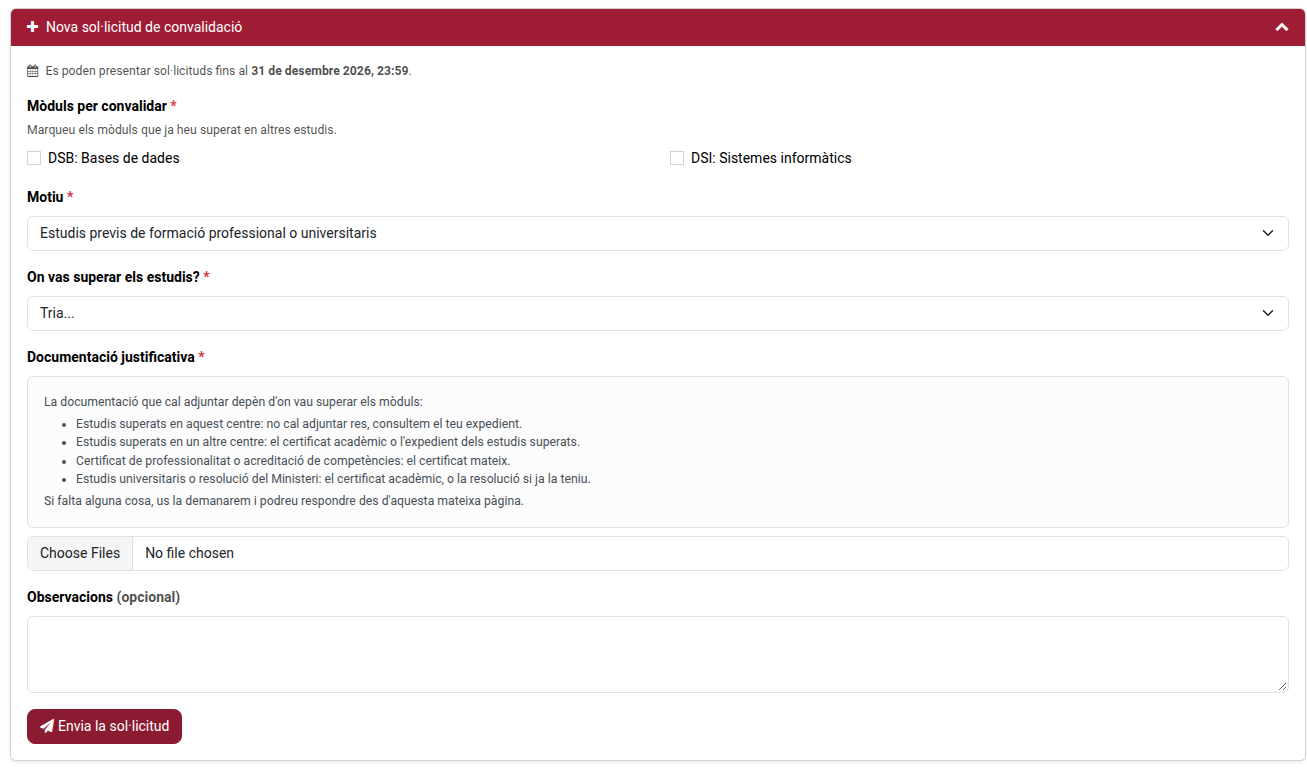
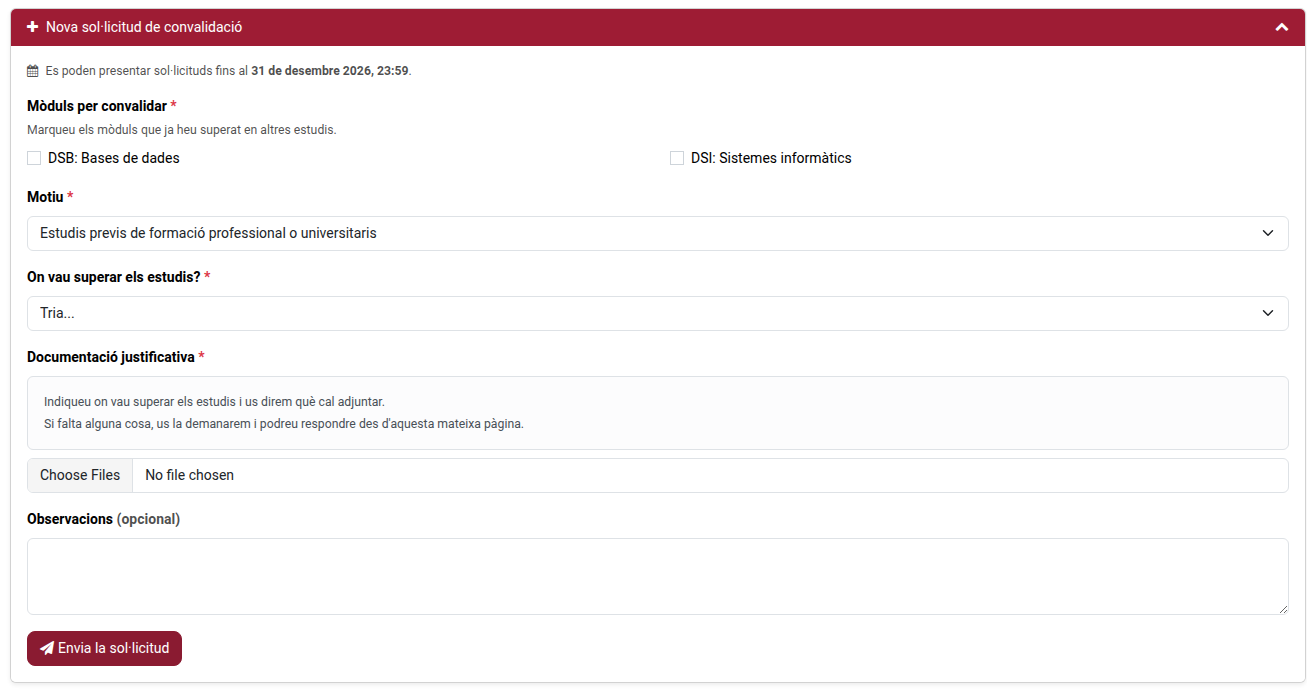
Convalidation portal: show only the document guidance matching the chosen grounds (#579)

Changed region(s): [[0.0, 0.0, 1.0, 0.7902], [0.0, 0.9117, 0.153, 0.9725], [0.5203, 0.1823, 0.6427, 0.2431]]

diff --git a/static/tests/tours/convalidation_tour.js b/static/tests/tours/convalidation_tour.js
@@ -256,10 +256,15 @@ registry.category("web_tour.tours").add("ems_convalidation_grade_tutor_matrix", 
     ],
 });
 
-function assertDocumentsRequired(expected) {
+// Whether the documents are required, and that only the guidance for these grounds is shown.
+function assertGuidance(basis, origin, required) {
     const input = document.querySelector(".o_ems_convalidation_new input[name='documents']");
-    if (input.required !== expected) {
-        throw new Error(`Supporting documents should${expected ? "" : " not"} be required`);
+    if (input.required !== required) {
+        throw new Error(`Supporting documents should${required ? "" : " not"} be required`);
+    }
+    const shown = [...document.querySelectorAll(".o_ems_convalidation_new .o_ems_convalidation_guidance:not(.d-none)")];
+    if (shown.length !== 1 || shown[0].dataset.basis !== basis || shown[0].dataset.origin !== origin) {
+        throw new Error(`Only the guidance for ${basis}/${origin} should be shown`);
     }
 }
 
@@ -286,6 +291,10 @@ registry.category("web_tour.tours").add("ems_portal_convalidation_submit", {
             run: "selectByIndex 0",
         },
         {
+            trigger: ".o_ems_convalidation_new .o_ems_convalidation_guidance[data-origin='']:not(.d-none)",
+            content: "Until they say where, the guidance asks for it",
+        },
+        {
             trigger: ".o_ems_convalidation_new .o_ems_convalidation_origin:not(.d-none) select[name='prior_studies_origin']",
             content: "Prior studies ask where they were passed: at this centre",
             run: "selectByIndex 1",
@@ -293,7 +302,7 @@ registry.category("web_tour.tours").add("ems_portal_convalidation_submit", {
         {
             trigger: ".o_ems_convalidation_new .o_ems_convalidation_documents_optional:not(.d-none)",
             content: "Studies passed here need no documents",
-            run: () => assertDocumentsRequired(false),
+            run: () => assertGuidance("prior_studies", "centre", false),
         },
         {
             trigger: ".o_ems_convalidation_new select[name='prior_studies_origin']",
@@ -303,7 +312,7 @@ registry.category("web_tour.tours").add("ems_portal_convalidation_submit", {
         {
             trigger: ".o_ems_convalidation_new .o_ems_convalidation_documents_required:not(.d-none)",
             content: "Studies passed elsewhere need their documents",
-            run: () => assertDocumentsRequired(true),
+            run: () => assertGuidance("prior_studies", "elsewhere", true),
         },
         {
             trigger: ".o_ems_convalidation_new select[name='basis']",
@@ -317,7 +326,7 @@ registry.category("web_tour.tours").add("ems_portal_convalidation_submit", {
                 if (!document.querySelector(".o_ems_convalidation_new .o_ems_convalidation_origin").classList.contains("d-none")) {
                     throw new Error("Where the studies were passed is only asked for prior studies");
                 }
-                assertDocumentsRequired(true);
+                assertGuidance("certificate", undefined, true);
             },
         },
         {

diff --git a/static/src/js/frontend/convalidation_request_form.js b/static/src/js/frontend/convalidation_request_form.js
@@ -7,7 +7,8 @@ import publicWidget from "@web/legacy/js/public/public_widget";
  * pass the studies?" is only asked for prior studies, and the supporting documents are required
  * unless the studies were passed at this centre - the same rule the server enforces
  * (ems.convalidation._ems_documents_required) whatever the browser sends. Every word shown is in
- * the QWeb template, so it is translated there; this only shows, hides and marks as required.
+ * the QWeb template, so it is translated there; this only shows, hides and marks as required,
+ * including which documents to attach for the chosen grounds.
  */
 publicWidget.registry.EmsConvalidationRequestForm = publicWidget.Widget.extend({
     selector: ".o_ems_convalidation_new form",
@@ -32,5 +33,11 @@ publicWidget.registry.EmsConvalidationRequestForm = publicWidget.Widget.extend({
         this.documents.required = required;
         this.el.querySelector(".o_ems_convalidation_documents_required").classList.toggle("d-none", !required);
         this.el.querySelector(".o_ems_convalidation_documents_optional").classList.toggle("d-none", required);
+        // Which documents to attach: only the guidance for these grounds (and origin) is shown.
+        for (const guidance of this.el.querySelectorAll(".o_ems_convalidation_guidance")) {
+            const matches = guidance.dataset.basis === this.basis.value
+                && (guidance.dataset.origin === undefined || guidance.dataset.origin === this.origin.value);
+            guidance.classList.toggle("d-none", !matches);
+        }
     },
 });

diff --git a/docs/es/families/manual-convalidacions.md b/docs/es/families/manual-convalidacions.md
@@ -46,7 +46,7 @@ Las solicitudes ya presentadas no se ven afectadas: puedes seguir consultándola
 
 1. Haz clic en **Nueva solicitud de convalidación** para abrir el formulario, y marca los módulos que quieres convalidar.
 2. Elige el **Motivo**. Para estudios previos, indica también **dónde los superaste**: en este centro, o en otro centro o en la universidad.
-3. En **Documentación justificativa**, adjunta los documentos necesarios. Puedes seleccionar varios ficheros a la vez. Son obligatorios, salvo para estudios superados en este centro: sin ellos no se puede enviar la solicitud.
+3. En **Documentación justificativa**, adjunta los documentos necesarios. Puedes seleccionar varios ficheros a la vez. Son obligatorios, salvo para estudios superados en este centro: sin ellos no se puede enviar la solicitud. Justo encima del campo de ficheros, el formulario te indica qué documentos adjuntar según el motivo elegido (y, para estudios previos, dónde los superaste).
 4. Si quieres, escribe observaciones.
 5. Haz clic en **Enviar la solicitud**.
 

diff --git a/docs/ca/families/manual-convalidacions.md b/docs/ca/families/manual-convalidacions.md
@@ -46,7 +46,7 @@ Les sol·licituds ja presentades no es veuen afectades: les pots continuar consu
 
 1. Fes clic a **Nova sol·licitud de convalidació** per obrir el formulari, i marca els mòduls que vols convalidar.
 2. Tria el **Motiu**. Per a estudis previs, indica també **on els vas superar**: en aquest centre, o en un altre centre o a la universitat.
-3. A **Documentació justificativa**, adjunta els documents que calguin. Pots seleccionar diversos fitxers alhora. Són obligatoris, excepte per a estudis superats en aquest centre: sense ells no es pot enviar la sol·licitud.
+3. A **Documentació justificativa**, adjunta els documents que calguin. Pots seleccionar diversos fitxers alhora. Són obligatoris, excepte per a estudis superats en aquest centre: sense ells no es pot enviar la sol·licitud. Just a sobre del camp de fitxers, el formulari t'indica quins documents has d'adjuntar segons el motiu triat (i, per a estudis previs, on els vas superar).
 4. Si vols, escriu-hi observacions.
 5. Fes clic a **Envia la sol·licitud**.
 

diff --git a/docs/en/families/manual-convalidacions.md b/docs/en/families/manual-convalidacions.md
@@ -46,7 +46,7 @@ Requests already submitted are not affected: you can keep checking them, answeri
 
 1. Click **New convalidation request** to open the form, and tick the modules you want to convalidate.
 2. Choose the **Grounds**. For prior studies, also say **where you passed them**: at this centre, or at another centre or university.
-3. Under **Supporting documents**, attach the documents needed. You can select several files at once. They are mandatory, except for studies passed at this centre: the request can't be submitted without them.
+3. Under **Supporting documents**, attach the documents needed. You can select several files at once. They are mandatory, except for studies passed at this centre: the request can't be submitted without them. Right above the file field, the form tells you which documents to attach for the grounds you chose (and, for prior studies, where you passed them).
 4. If you want, write some comments.
 5. Click **Submit request**.
 

diff --git a/changelog/579-convalidation-mandatory-documents.md b/changelog/579-convalidation-mandatory-documents.md
@@ -9,6 +9,7 @@
   and the form marks the file field as required (or optional) as the grounds change.
 - The backend is not restricted: the secretariat or the Head of Studies can still register a
   request without documents and ask for them afterwards.
-- The portal's guidance for university studies now asks for the academic certificate (or the
-  Ministry resolution if already available), and the families, secretary and Head of Studies
-  manuals describe the new rule.
+- The portal form shows only the guidance on which documents to attach for the grounds chosen
+  (and, for prior studies, where they were passed), instead of the same list for every case; for
+  university studies it asks for the academic certificate (or the Ministry resolution if already
+  available). The families, secretary and Head of Studies manuals describe the new rule.
